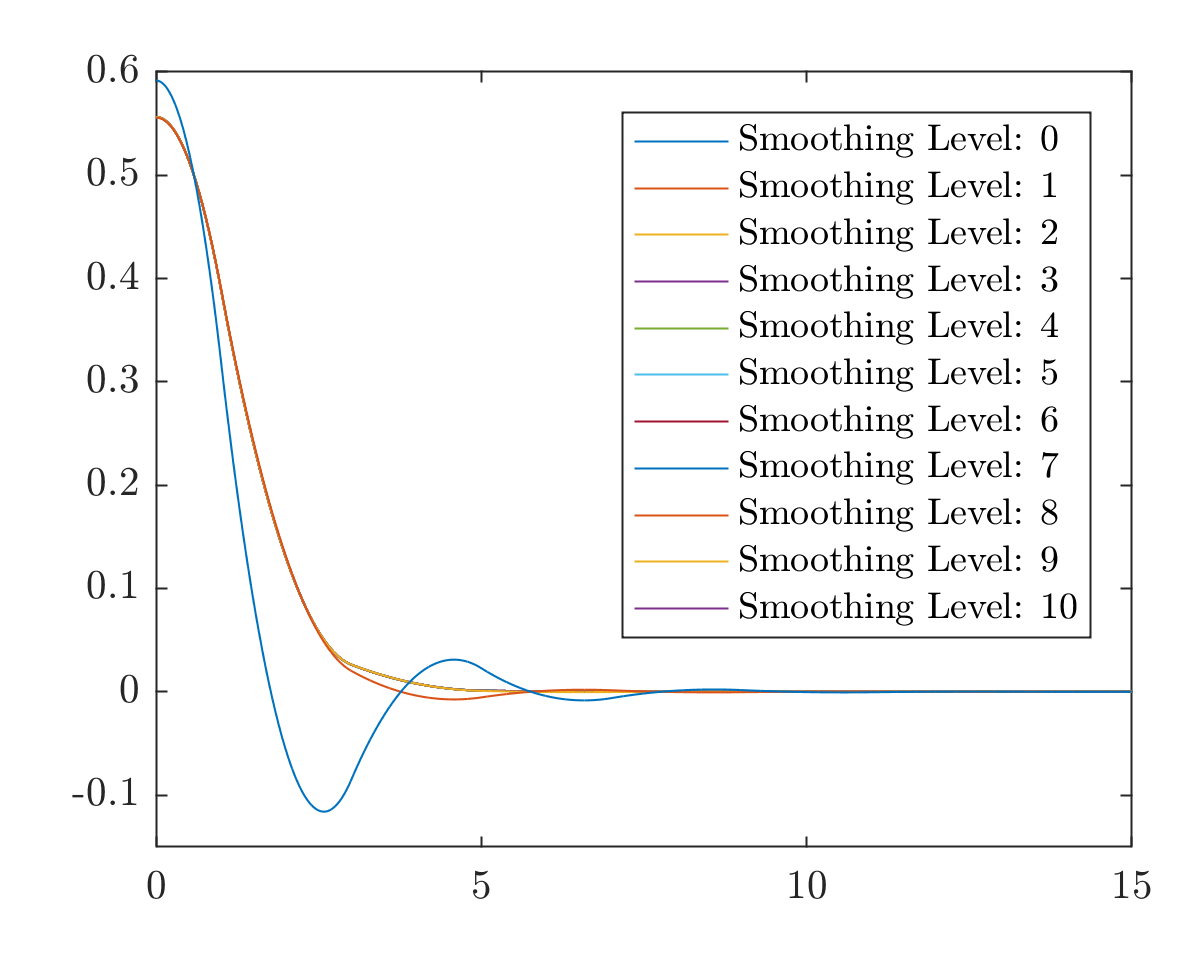
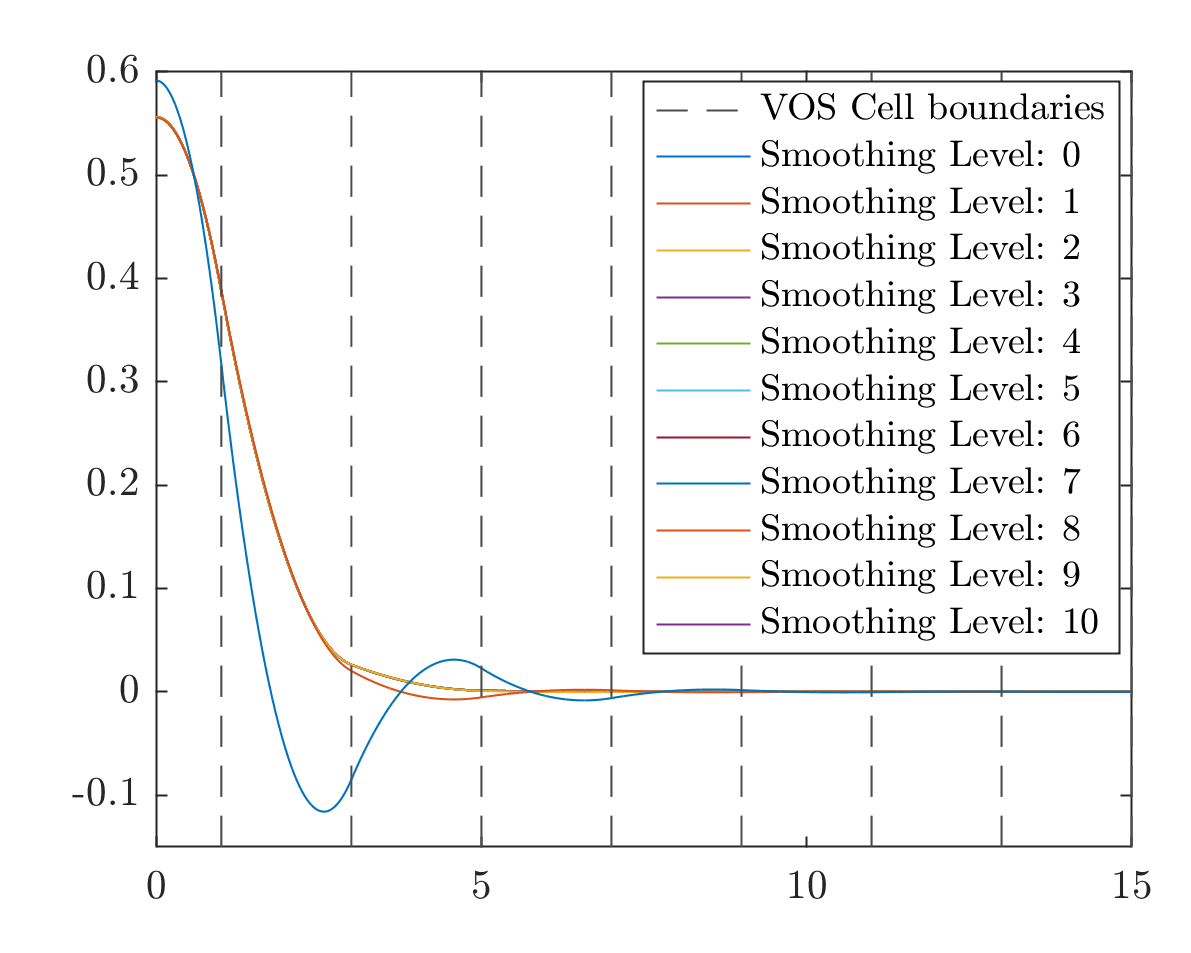
AUTO-COMMIT For Backup Update

Changed region(s): [[0.4971, 0.0609, 0.9631, 0.6999]]

diff --git a/Active_Build/Optimisation/InverseDesign_Error.m b/Active_Build/Optimisation/InverseDesign_Error.m
@@ -16,7 +16,7 @@ function [errorMeasure,h,targCoord,analysisCoord]=InverseDesign_Error(paramoptim
     [aeroClass,aeroName,profileComp]=ExtractVariables(varExtract,paramoptim);
     varExtract={'typeLoop'};
     [typeLoop]=ExtractVariables(varExtract,paramoptim.parametrisation);
-    
+    profileComp='distancenorm';
     [analysisCoord,upperLower,targPrep]=PrepareLoopCoord(loop,profileComp,typeLoop);
     
     switch aeroClass
@@ -45,6 +45,20 @@ function [errorMeasure,h,targCoord,analysisCoord]=InverseDesign_Error(paramoptim
         case 'area'
             
             [errorMeasure,modifiedDistance]=CompareProfilesArea(analysisCoord,targCoord);
+            plotPoints= @(points) plot(points([1:end],1),points([1:end],2));
+            h=figure;
+            subplot(2,1,1)
+            plotPoints(analysisCoord)
+            hold on
+            plotPoints(targCoord)
+            legend('snake points','Target points')
+            ax=subplot(2,1,2);
+            plotPoints(modifiedDistance)
+            ax.YScale='log';
+        case 'distancenorm'
+            analysisCoord=RemoveIdenticalConsecutivePoints(analysisCoord);
+            targCoord=RemoveIdenticalConsecutivePoints(targCoord);
+            [errorMeasure,modifiedDistance]=CompareProfilesDistance2(analysisCoord,targCoord);
             plotPoints= @(points) plot(points([1:end],1),points([1:end],2));
             h=figure;
             subplot(2,1,1)
@@ -100,7 +114,11 @@ function [analysisCoord,upperLower,targPrep]=PrepareLoopCoord(loop,profileComp,t
                     linspace(0,1,sum(upperLower<0))];
                 x=(0.5-cos(x*pi)/2);
               targPrep=[x',upperLower];
-                
+            case 'distancenorm'
+                x=[linspace(1,0,sum(upperLower>0)),...
+                    linspace(0,1,sum(upperLower<0))];
+                x=(0.5-cos(x*pi)/2);
+              targPrep=[x',upperLower];
         end
         
         
@@ -309,6 +327,56 @@ function [errorMeasure,areaDistrib]=CompareProfilesArea(profileCoord,targCoord)
     %error('Compare Profile through area integration has not been coded yet')
 end
 
+
+function [errorMeasure,areaDistrib]=CompareProfilesDistance2(profileCoord,targCoord)
+    
+    
+    normVec=@(v) v./repmat(sqrt(sum(v.^2,2)),[1,size(v,2)]);
+    pDistDir=@(m,p,v) sign((m-repmat(p,[size(m,1),1]))*v').*sqrt(sum((m-repmat(p,[size(m,1),1])).^2,2));
+    
+    
+ 
+    maxDist=[min([profileCoord;targCoord]);max([profileCoord;targCoord])];
+    nP1=size(profileCoord,1);
+    edgeNormal=([0 1;-1 0]*normVec(profileCoord([2:end,1],:)-profileCoord)')';
+    [~,vDist]=knnsearch(targCoord,profileCoord);
+    for ii=1:nP1
+        
+        vertNormal=sum(edgeNormal(mod((ii-1:ii)-1,nP1)+1,:));
+        
+        scales=(maxDist-profileCoord([ii,ii],:))./repmat(vertNormal,[2,1]);
+        scales=scales(:);
+        scales=[min(scales(scales>0)),max(scales(scales<0))];
+        
+        testCoord=repmat(profileCoord(ii,:),[2,1])+(scales'*vertNormal);
+        
+        [x0,y0,iout,jout] = intersections(testCoord(:,1),testCoord(:,2),...
+                targCoord([1:end,1],1),targCoord([1:end,1],2));
+        rmv=isnan(iout) | isnan(jout);
+        
+        x0(rmv)=[];
+        y0(rmv)=[];
+        
+        
+        if numel(x0)>0
+            vertDists=pDistDir([x0,y0],profileCoord(ii,:),vertNormal);
+            
+            vDist(ii)=min([vDist(ii);abs(vertDists)]);
+        
+        end
+    end
+    
+    
+    errorMeasure.sum=sum(vDist);
+    errorMeasure.mean=mean(vDist);
+    errorMeasure.std=std(vDist);
+    errorMeasure.max=max(vDist);
+    errorMeasure.min=min(vDist);
+    areaDistrib=[profileCoord(:,1),vDist];
+   
+    
+    %error('Compare Profile through area integration has not been coded yet')
+end
 
 
 

diff --git a/test/GenerateModePlot.m b/test/GenerateModePlot.m
@@ -170,3 +170,51 @@ end
 [t.Interpreter]=deal('latex');
 [t.BackgroundColor]=deal([1 1 1]);
 [t.FontSize]=deal(12);
+
+
+%%
+
+
+for ii=figList
+    
+     h=findobj(ii,'type','axes');
+    if numel(h)>0
+        for jj=1:numel(h)
+           boxAxX=h(jj).XLim;
+            boxAxY=h(jj).YLim;
+            h(jj).NextPlot='add';
+            for kk=[-19:2:19]
+                l=plot(h(jj),[kk kk],[-1 2],'Color',[0.3 0.3 0.3],'Linestyle','--');
+                
+            end
+            l.DisplayName='VOS Cell boundaries';
+            
+            c(ii).l=findobj(h(jj),'type','line');
+            c(ii).l=c(ii).l(~cellfun(@isempty,{c(ii).l(:).DisplayName}));
+            
+            h(jj).XLim=boxAxX;
+            h(jj).YLim=boxAxY;
+        end
+    end
+end
+%%
+
+for ii=[1:5]
+    h=findobj(ii,'type','axes');
+    h.XLim=[-12 12];
+end
+
+%%
+
+for ii=[2 6 7];
+    
+    h=findobj(ii,'type','axes');
+    if numel(h)>0
+        for jj=1:numel(h)
+            lh=legend(flip(c(ii).l));
+           lh.Interpreter='latex';
+        end
+    end
+    
+end
+

diff --git a/Active_Build/Include_Files/include_Utilities.m b/Active_Build/Include_Files/include_Utilities.m
@@ -184,12 +184,14 @@ end
 
 function [trimmedPoints,indRmv]=RemoveIdenticalConsecutivePoints(points)
     
-    [~,edgeLength]=LengthProfile(points);
-    indRmv=find(edgeLength<1e-10);
-    indRmv(1)=[]; % remove first point which has 0 distance.
+%     [~,edgeLength]=LengthProfile(points);
+%     indRmv=find(edgeLength<1e-10);
+%     indRmv(1)=[]; % remove first point which has 0 distance.
+%     trimmedPoints=points;
+%     trimmedPoints(indRmv,:)=[];
+    indRmv=find((sum((points-points([end,1:end-1],:)).^2,2))<(1e-10)^2);
     trimmedPoints=points;
     trimmedPoints(indRmv,:)=[];
-    
 end
 
 function cellSimilar=FindIdenticalVector(blockSegments)
